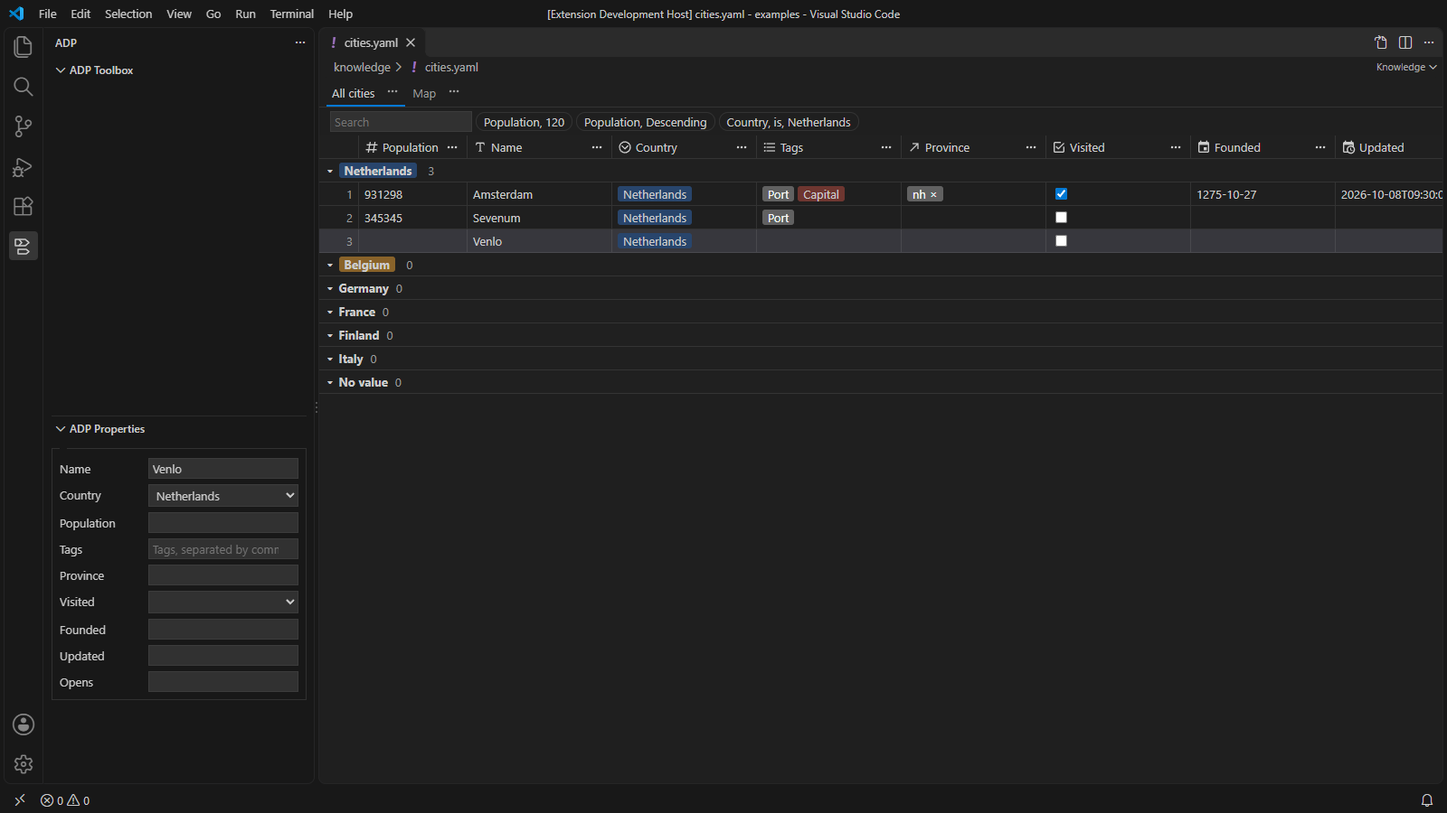
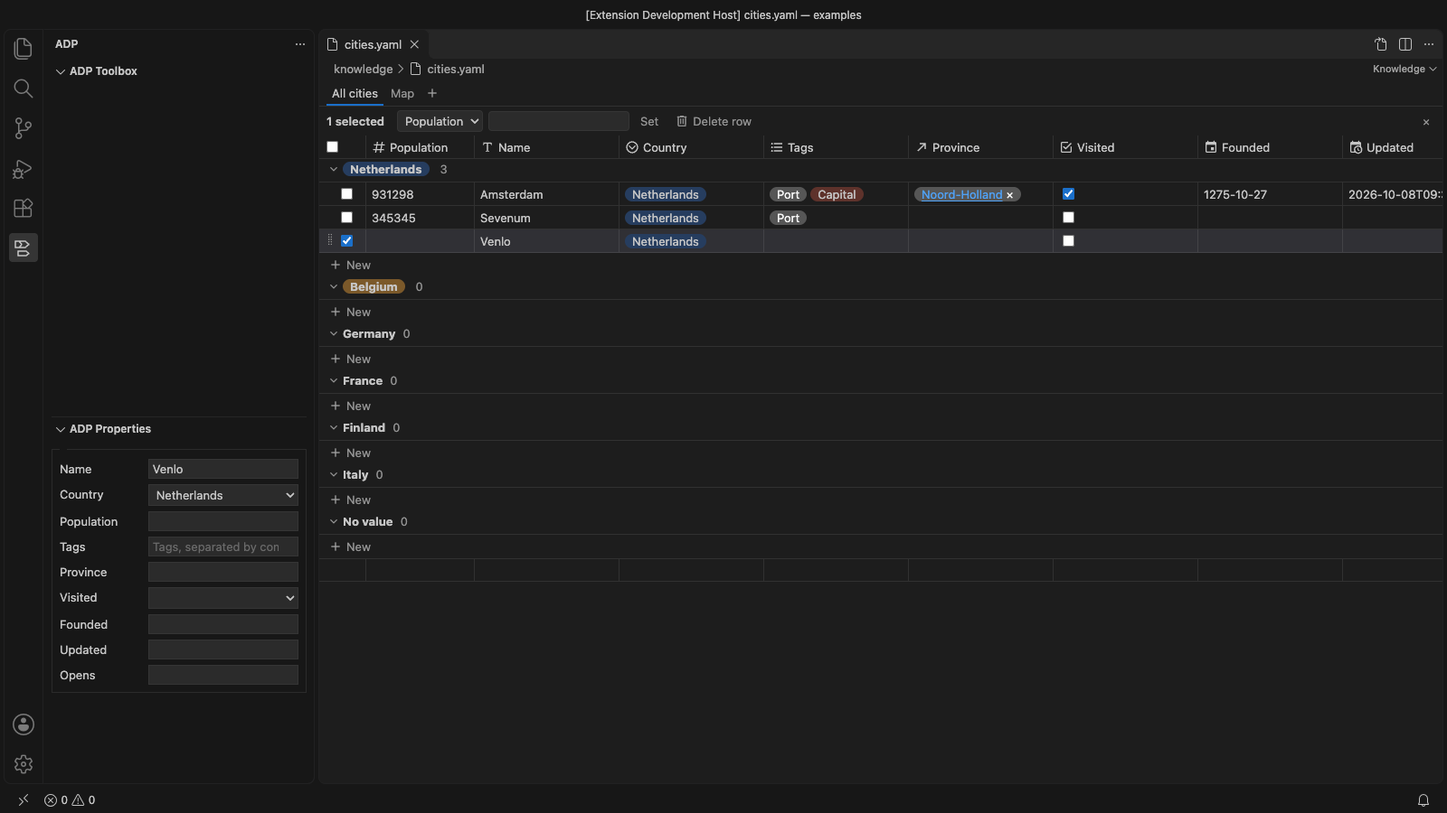
Knowledge designer side by side with the standalone host
Every gesture of etalii.adp spec 079 (FR-001 to FR-027) on cities.yaml and every step of
spec 080 (FR-001 to FR-011) on the relations example, made in both hosts and the written
files compared byte for byte (079 T045, T046; 080 T021, T022).

Fixed here, each with a test:
- Rename in a column's menu wrote the name "$typed" once the header had been drawn again.
- An optional checkbox of an operation's form, left alone, wrote checked: false.
- Changing a condition's value or property moved the view's filter block.
- A text condition started with contains; knowledge.md and the standalone host start with is.
- A row's checkbox pressed with the pointer did not select the row.

The standalone host's own choices are listed in docs/disl-support.md for issue 162, the one
Undo after a two-way relation in docs/parity.md, and knowledge.png is retaken; capture.mjs
now opens Quick Open with Cmd+P on macOS.

Claude-Session: https://claude.ai/code/session_01GadpJyVDUhFrpYtNsUeJqM

diff --git a/test/webview/table/gestures.test.ts b/test/webview/table/gestures.test.ts
@@ -154,6 +154,19 @@ describe('a table with gestures', () => {
     expect(all<HTMLInputElement>('tbody .adp-table-check').map((box) => box.checked)).toEqual([false, false]);
   });
 
+  it('selects a row by a press on its checkbox, which focuses the checkbox before it changes', () => {
+    const box = one<HTMLInputElement>('tbody tr[data-id="r1"] .adp-table-check');
+    // A press with the pointer focuses the checkbox first; that focus selects nothing of its own.
+    box.focus();
+    tick(box);
+    expect(box.checked).toBe(true);
+    expect(one<HTMLInputElement>('.adp-table-all').checked).toBe(false);
+    const other = one<HTMLInputElement>('tbody tr[data-id="r2"] .adp-table-check');
+    other.focus();
+    tick(other);
+    expect([box.checked, other.checked, one<HTMLInputElement>('.adp-table-all').checked]).toEqual([true, true, true]);
+  });
+
   it('draws the surface it drew before for a table without gestures', () => {
     surface.receive(message({ ...view, gestures: undefined }));
     expect(all('tbody [role="rowheader"]').map((cell) => cell.textContent)).toEqual(['1', '2']);
@@ -182,7 +195,7 @@ describe('the settings control and the panels of a table with gestures', () => {
         id: 'c1',
         properties: [{ id: 'size', label: 'size', checked: true }],
         operators: [{ id: 'equals', label: '=', checked: true }, { id: 'greater-than', label: '>', request: op('setCondition', ['c1'], { operator: 'greater-than' }) }],
-        value: { control: 'number', value: '3', request: { kind: 'steps', steps: [op('removeCondition', ['c1']), op('addCondition', ['va'], { property: 'size', operator: 'equals', number: '$typed' })] } },
+        value: { control: 'number', value: '3', request: { kind: 'steps', steps: [op('addCondition', ['va'], { property: 'size', operator: 'equals', number: '$typed' }), op('removeCondition', ['c1'])] } },
         remove: op('removeCondition', ['c1']),
       }],
       groups: [],
@@ -248,7 +261,7 @@ describe('the settings control and the panels of a table with gestures', () => {
     press(all('.adp-table-item-text')[1]);
     change(one<HTMLSelectElement>('.adp-table-condition select[aria-label="Comparison"]'), 'greater-than');
     change(one<HTMLInputElement>('.adp-table-condition input[aria-label="Value"]'), '5');
-    expect(edits()).toEqual([op('setCondition', ['c1'], { operator: 'greater-than' }), { kind: 'steps', steps: [op('removeCondition', ['c1']), op('addCondition', ['va'], { property: 'size', operator: 'equals', number: 5 })] }]);
+    expect(edits()).toEqual([op('setCondition', ['c1'], { operator: 'greater-than' }), { kind: 'steps', steps: [op('addCondition', ['va'], { property: 'size', operator: 'equals', number: 5 }), op('removeCondition', ['c1'])] }]);
   });
 
   it('adds a filter and a sort from their lists, and hides a group by its eye', () => {

diff --git a/test/core/plugins/knowledgeGestures.test.ts b/test/core/plugins/knowledgeGestures.test.ts
@@ -49,6 +49,18 @@ describe('the gestures of a Knowledge table', () => {
     expect(gestures.newProperty?.[1].request).toMatchObject({ operation: 'addProperty', args: { valueType: 'number', after: 'p9' } });
   });
 
+  it('changes the value of a condition where the file has its filter, as the standalone host does', () => {
+    const value = gestures.settings!.filter.conditions[0].value.request!;
+    const written = textOf(source, JSON.parse(JSON.stringify(value).replace('"$typed"', '"o2"')) as TableRequest);
+    expect(written).toBe(source.text.replace(/( {4}filter:\r?\n {6}- property: p2\r?\n {8}operator: is\r?\n {8}option: )o1/, '$1o2'));
+  });
+
+  it('starts a condition on text with the first comparison `knowledge.md` gives text, is', () => {
+    const add = gestures.settings!.filter.add.find((entry) => entry.id === 'p1')!.request!;
+    expect(add).toMatchObject({ operation: 'addCondition', args: { property: 'p1', operator: 'is' } });
+    expect(gestures.settings!.filter.conditions[0].properties.find((entry) => entry.id === 'p1')!.request).toMatchObject({ steps: [{ operation: 'addCondition', args: { property: 'p1', operator: 'is' } }, { operation: 'removeCondition' }] });
+  });
+
   it('says the sorts and filters in words, each with what removes it', () => {
     expect(gestures.items?.map((item) => [item.kind, item.text, item.descending ?? false])).toEqual([['sort', 'Population', true], ['filter', 'Country is Netherlands', false]]);
     const removed = textOf(source, gestures.items![0].remove!);
@@ -91,7 +103,7 @@ describe('the settings control, the options panel and the calculation line of a 
     const not = textOf(source, condition.operators.find((entry) => entry.id === 'is-not')!.request!);
     expect(viewOf(not).gestures?.items?.map((item) => item.text)).toContain('Country is not Netherlands');
     const byName = textOf(source, condition.properties.find((entry) => entry.id === 'p1')!.request!);
-    expect(viewOf(byName).gestures?.settings?.filter.conditions[0].operators.find((entry) => entry.checked)?.id).toBe('contains');
+    expect(viewOf(byName).gestures?.settings?.filter.conditions[0].operators.find((entry) => entry.checked)?.id).toBe('is');
   });
 
   it('nests filter groups as deep as the definition allows, and says so past it', () => {

diff --git a/src/core/plugins/knowledge-views/settings.ts b/src/core/plugins/knowledge-views/settings.ts
@@ -11,9 +11,9 @@ const operation = (name: string, on: readonly string[] = [], args: Readonly<Reco
 const steps = (list: readonly TableRequest[]): TableRequest => (list.length === 1 ? list[0] : { kind: 'steps', steps: list });
 const text = (value: Value | undefined): string => (value === undefined || value === null ? '' : String(value));
 
-/** The comparisons of each value type, the first the one a new condition starts with; every type also has the two of emptiness. */
+/** The comparisons of each value type in the order of `knowledge.md`, the first the one a new condition starts with; every type also has the two of emptiness. */
 const comparisons: Readonly<Record<string, readonly string[]>> = {
-  text: ['contains', 'does-not-contain', 'is', 'is-not', 'starts-with', 'ends-with'],
+  text: ['is', 'is-not', 'contains', 'does-not-contain', 'starts-with', 'ends-with'],
   number: ['equals', 'does-not-equal', 'greater-than', 'less-than', 'at-least', 'at-most'],
   checkbox: ['is-checked', 'is-not-checked'],
   date: ['is', 'is-before', 'is-after', 'is-on-or-before', 'is-on-or-after'],
@@ -69,7 +69,10 @@ export function settingsOf(table: TableData, view: ModelElement, columns: readon
     if (!property) return undefined;
     const operator = text(condition.attributes.operator);
     const key = keyOf(property.valueType);
-    const replaced = (args: Readonly<Record<string, string | number | boolean>>): TableRequest => steps([operation('removeCondition', [condition.id]), operation('addCondition', [parent], args)]);
+    // The new condition is added before the old one goes, so that a filter of one condition is
+    // never empty in between and its block stays where the file has it, as the standalone host's
+    // change in place leaves it.
+    const replaced = (args: Readonly<Record<string, string | number | boolean>>): TableRequest => steps([operation('addCondition', [parent], args), operation('removeCondition', [condition.id])]);
     const empty = operator === 'is-empty' || operator === 'is-not-empty' || property.valueType === 'checkbox' || key === undefined;
     const choice = property.valueType === 'selection' || property.valueType === 'multipleSelection';
     const value: TableField = empty

diff --git a/src/webview/table/table.ts b/src/webview/table/table.ts
@@ -470,7 +470,8 @@ export class Table {
     if (!cell || target.closest('.adp-table-editor')) return;
     this.place = placeOf(cell);
     this.rove();
-    if (this.silent) return;
+    // A row's checkbox selects by its change, which a selection made on its focus would undo.
+    if (this.silent || target.closest('.adp-table-check')) return;
     this.anchor = cell.closest('tr')?.dataset.id;
     this.select(this.idsOf(cell));
   }
@@ -807,10 +808,27 @@ export class Table {
 
   /** An entry of a menu chosen: renamed in place, a panel opened, or its request made. */
   private chosen(entry: TableEntry): void {
-    if (entry.named && entry.entries && this.menuAt?.isConnected) this.newProperty(this.menuAt, entry.entries);
-    else if (entry.inPlace && entry.request && this.menuAt?.isConnected) this.rename(this.menuAt, entry.request);
-    else if (entry.opens) this.openPanel(entry.opens);
+    const anchor = this.anchorOfMenu();
+    if (entry.named && entry.entries) {
+      if (anchor) this.newProperty(anchor, entry.entries);
+    } else if (entry.inPlace && entry.request) {
+      // Without its tab or header there is no field to type the name in, and nothing is sent.
+      if (anchor) this.rename(anchor, entry.request);
+    } else if (entry.opens) this.openPanel(entry.opens);
     else if (entry.request) this.make(entry.request);
+  }
+
+  /**
+   * The tab or header a menu was opened from, as it is drawn now: pressing a header selects its
+   * column and draws the table again, so the element the menu was opened from may be gone.
+   */
+  private anchorOfMenu(): HTMLElement | undefined {
+    const at = this.menuAt;
+    if (!at || at.isConnected) return at;
+    const { view, id } = at.dataset;
+    if (view !== undefined) return [...this.tabs.querySelectorAll<HTMLElement>('[role="tab"]')].find((tab) => tab.dataset.view === view);
+    if (id !== undefined) return [...this.grid.querySelectorAll<HTMLElement>('[role="columnheader"][data-id]')].find((header) => header.dataset.id === id);
+    return undefined;
   }
 
   /** Opens an editor of the settings control, or a column's options, in place of the one that was open. */

diff --git a/test/webview/table/editors.test.ts b/test/webview/table/editors.test.ts
@@ -1,0 +1,31 @@
+import { describe, expect, it } from 'vitest';
+import type { TableParam } from '../../../src/core/tool/tableView';
+import { controlOf, given } from '../../../src/webview/table/editors';
+
+// What the form of an operation's parameters gives for a checkbox: an optional one with no default
+// left unticked gives nothing, so a filter added from a column's menu is not written with
+// `checked: false` (a difference the side-by-side check with the standalone host found).
+
+const box = (more: Partial<TableParam> = {}): TableParam => ({ name: 'checked', label: 'Checked', control: 'checkbox', required: false, ...more });
+
+describe('a checkbox of an operation\'s form', () => {
+  it('gives nothing when it is optional, has no default and is left unticked', () => {
+    const param = box();
+    expect(given(param, controlOf(param))).toBeUndefined();
+  });
+
+  it('gives true once ticked', () => {
+    const param = box();
+    const control = controlOf(param) as HTMLInputElement;
+    control.checked = true;
+    expect(given(param, control)).toBe(true);
+  });
+
+  it('gives false when it is required or has a default', () => {
+    for (const param of [box({ required: true }), box({ value: true })]) {
+      const control = controlOf(param) as HTMLInputElement;
+      control.checked = false;
+      expect(given(param, control)).toBe(false);
+    }
+  });
+});

diff --git a/test/webview/table/columnMenu.test.ts b/test/webview/table/columnMenu.test.ts
@@ -112,3 +112,19 @@ describe('a column\'s menu', () => {
     expect(document.querySelector('.adp-table-rename')).toBeNull();
   });
 });
+
+describe('a column renamed from its menu after the table was drawn again', () => {
+  it('asks the name in the header as it is drawn now, and never sends a rename without one', () => {
+    press(header('p2'));
+    // Pressing a header selects its column, and the view that comes back draws the headers anew.
+    const view = type.view(source, {}) as TableView;
+    surface.receive({ v: 2, type: 'view', origin: 'etalii/knowledge', kind: 'designer', view, actions: [], version: 2 });
+    press(entry('rename'));
+    expect(edits()).toEqual([]);
+    const input = one<HTMLInputElement>('[role="columnheader"][data-id="p2"] .adp-table-rename');
+    expect(document.activeElement).toBe(input);
+    input.value = 'Land';
+    input.dispatchEvent(new KeyboardEvent('keydown', { key: 'Enter', bubbles: true, cancelable: true }));
+    expect(edits()).toEqual([{ kind: 'operation', operation: 'renameProperty', on: ['p2'], args: { name: 'Land' } }]);
+  });
+});

diff --git a/src/webview/table/editors.ts b/src/webview/table/editors.ts
@@ -56,9 +56,16 @@ export function controlOf(param: TableParam): Control {
   return input;
 }
 
-/** What a control was given, as its parameter's kind of value; undefined for one left empty. */
+/**
+ * What a control was given, as its parameter's kind of value; undefined for one left empty. An
+ * optional checkbox with no default that is left unticked gives nothing either, as the standalone
+ * host gives nothing for a value it did not ask.
+ */
 export function given(param: TableParam, control: Control): TableValue | undefined {
-  if (param.control === 'checkbox') return control instanceof HTMLInputElement && control.checked;
+  if (param.control === 'checkbox') {
+    const checked = control instanceof HTMLInputElement && control.checked;
+    return checked || param.required || param.value !== undefined ? checked : undefined;
+  }
   if (control.value === '') return undefined;
   return param.control === 'number' ? Number(control.value) : control.value;
 }

diff --git a/test/webview/table/table.test.ts b/test/webview/table/table.test.ts
@@ -552,7 +552,7 @@ describe('the actions', () => {
     type(controls[0], 'Titel');
     type(controls[4], 'b');
     submit.click();
-    expect(edits()).toEqual([{ kind: 'operation', operation: 'rename', on: ['title'], args: { name: 'Titel', width: 120, wrap: false, kind: 'b' } }]);
+    expect(edits()).toEqual([{ kind: 'operation', operation: 'rename', on: ['title'], args: { name: 'Titel', width: 120, kind: 'b' } }]);
     expect(document.querySelector('.adp-table-params')).toBeNull();
   });
 

diff --git a/docs/disl-support.md b/docs/disl-support.md
@@ -312,6 +312,34 @@ The Knowledge designer is read from its definition, with the view logic this hos
 | The colours of options | This host's own ten pairs, one for a light and one for a dark theme | Its own | [162](https://github.com/etalii-adp/etalii.adp/issues/162) |
 | The search | Behind a magnifier; hides the rows without the typed text while the table is open, in the webview. A table of more than 300 lines draws only those near sight, and the search hides among those | The same, over every row | None |
 
+#### Side by side with the standalone host
+
+On 2026-11-22 every gesture of etalii.adp spec 079 (FR-001 to FR-027) was made on `examples/knowledge/cities.yaml`, and every step of spec 080 (FR-001 to FR-011) on the relations example (`fixtures/fbl/real-files/src/examples/designers/knowledge/relations/`), in both hosts: this plug-in in Visual Studio Code 1.147.0 on macOS, and the standalone host at `etalii.adp.ide.standalone` `6da7f5a6c`, each driven by a script over the Chrome DevTools protocol, each from the same bytes, with the `.adp` registrations the standalone host needs beside the files in both. After each gesture the files each host wrote were compared byte for byte, new ids put aside. 68 gestures were made. 56 write the same bytes in both hosts, 5 of them only since the differences this host had were fixed here. 10 write different bytes because the standalone host departs from the definition or chooses where it is silent; those are listed for issue [162](https://github.com/etalii-adp/etalii.adp/issues/162) and not settled here. 2 are this host's still: "Edit relation" has no field for the other side's name, and the all-or-any choice of a filter of one condition is not offered. Where the two surfaces differ without writing different bytes is listed after them.
+
+| Gesture | What differed | Status |
+| --- | --- | --- |
+| Rename in a column's menu | The property was renamed `$typed`: pressing a header draws the table again, the header the menu was opened from was gone, and the request went without the name | Fixed here: the name is asked in the header as it is drawn now, and nothing is sent without one (`test/webview/table/columnMenu.test.ts`) |
+| Filter in a column's menu, its form sent | The condition was written with `checked: false`, an optional checkbox of the form that was left alone | Fixed here: an optional checkbox with no default that is left unticked gives nothing (`test/webview/table/editors.test.ts`) |
+| A condition's value or property changed in the filter editor | The view's `filter` block moved after the keys that follow it, since the condition was taken away before the new one was added and the filter was empty in between | Fixed here: the new condition is added first, so the block stays where the file has it (`test/core/plugins/knowledgeGestures.test.ts`) |
+| A condition on text added in the filter editor | It started with `contains`; `knowledge.md` gives text the comparisons `is`, `is-not`, `contains`… and the standalone host starts with `is` | Fixed here: the comparisons are in the companion's order (`test/core/plugins/knowledgeGestures.test.ts`) |
+| A row's checkbox pressed with the pointer | Nothing was selected: the checkbox's focus selected the row and its change took it away again, so the bar of the rows selected never showed | Fixed here: a checkbox selects by its change alone (`test/webview/table/gestures.test.ts`) |
+| `+` after the tabs | The standalone host names the view `View` and leaves the view shown as it was; `addView` names it `Table` and makes it the active one, as this host does | For issue [162](https://github.com/etalii-adp/etalii.adp/issues/162) |
+| Duplicate in a view's menu | The standalone host names the copy `All cities 2`; `duplicateView` names it `All cities copy`, as this host does | For issue [162](https://github.com/etalii-adp/etalii.adp/issues/162) |
+| Delete of the view shown | The standalone host removes `activeView`; `deleteView` makes the first other view the active one, as this host does | For issue [162](https://github.com/etalii-adp/etalii.adp/issues/162) |
+| Hide in view, and a tick of the property visibility editor | The standalone host also gives every column before it in the view a column setting with no attribute; `setColumn` writes the one column, as this host does | For issue [162](https://github.com/etalii-adp/etalii.adp/issues/162) |
+| Delete of a property that has values, a two-way relation's side among them | `deleteProperty` asks first when a cell holds a value (`confirm`, threshold 1), and this host asks; the standalone host deletes without asking. The bytes are the same once it is confirmed | For issue [162](https://github.com/etalii-adp/etalii.adp/issues/162) |
+| Filter in a column's menu | `addCondition` requires a comparison and gives none by default. The standalone host writes `is` at once; this host asks it in a form, and writes the same bytes once `is` is given | For issue [162](https://github.com/etalii-adp/etalii.adp/issues/162) |
+| A new option, in the options panel and typed in a selection cell | The standalone host gives it the next colour of its own (`colour: brown`); `addOption`'s colour defaults to `default`, so this host writes none | For issue [162](https://github.com/etalii-adp/etalii.adp/issues/162) |
+| A condition's property changed in the filter editor | The standalone host keeps the condition's old `option` under the new property; this host writes the condition anew with the new property's first comparison and no value | For issue [162](https://github.com/etalii-adp/etalii.adp/issues/162) |
+| A column's right border dragged by the same distance | Each host writes the width it draws plus the distance, and the standalone host draws a column without a width 20 pixels wider than this host does | For issue [162](https://github.com/etalii-adp/etalii.adp/issues/162): the definition gives no width for a column without one |
+| A knowledge file renamed in the explorer | Both hosts rewrite `target` in the other files alike. The standalone host also renames the `.adp` registration beside the file and the `body` it names; this host leaves the registration, whose `body` then names no file | For issue [162](https://github.com/etalii-adp/etalii.adp/issues/162): neither the definition nor FBL says what becomes of a registration when its body is renamed |
+| "Edit relation", Two-way relation | Both hosts write the same bytes when no name is given: the other side is named after this table. The standalone panel also takes a name typed first; this host offers none | Not fixed here: the menu entry has no field for the name |
+| The all-or-any choice of the view's filter | The standalone editor offers it always and writes `filterMatch`; this host offers it only from two conditions on, so a filter of one condition cannot be set to `any` | Not fixed here |
+
+The gestures that wrote the same bytes in both hosts: switching, renaming and dragging a view; Change type, Sort ascending and descending, Group, Wrap text, Freeze up to column, Duplicate, Insert left and right, `+` after the headers, with a name and without one, and dragging a column; the × of a sort and of a filter in the bar; adding, reversing and removing a sort; a condition's comparison and value; adding a condition and a filter group; Group by, Hide empty groups, the order of the groups and the eye of a group; folding, moving up and down and hiding a group by its heading; renaming, recolouring and deleting an option, used by one row and by several; `+ New` under the table and under a group; setting one property for the rows selected and deleting them, and Delete row from a row's menu; dragging a row; Shift+Enter; a sum in the calculation line; creating a two-way and a one-way relation; deleting one side of a two-way relation with the other side deleted too or kept one-way; Edit relation's limit; choosing related rows in a relation cell, with no limit and with a limit of one; deleting a row that rows of another file relate to, after the count is said; and the `target` rewritten when a file is renamed.
+
+Where the surfaces differ without writing different bytes: this host shows a group heading's controls on hover and leaves out Move up on the first group and Move down on the last, where the standalone host shows all of them; it calls the group of rows without a value "No value", the standalone host "No Country"; it lists the properties in the property visibility editor in the document's order, the standalone host in the view's; it orders the groups by two buttons, the standalone host by a list of "As arranged", "A to Z" and "Z to A"; it asks a new relation's target, limit and other side in one form, the standalone host one after another; it words the two ways to delete one side of a two-way relation "Delete both sides" and "Keep the other side as a one-way relation", the standalone host "Delete 'Regions' too" and "Keep 'Regions' as a one-way relation"; and it shows the bar of the rows selected, in place of the sorts and filters, as soon as a cell's row is selected, where the standalone host shows it for rows ticked by their checkboxes.
+
 ### Mind map
 
 The mind map is read from its definition alone, with the three plugins it names. Every row is part of issue [152](https://github.com/etalii-adp/etalii.adp/issues/152) unless it says otherwise.

diff --git a/docs/screenshots/readme.md b/docs/screenshots/readme.md
@@ -23,6 +23,6 @@ The whole procedure is executable: [`capture.mjs`](capture.mjs) drives all of th
 | `agent-behavior-modelling.png` | `agent-behavior-modelling/research-assistant/` → `research-assistant.adp` | The research assistant's behavior tree centred in its tab, each node in the shape and colour of its kind with its keyword above its label, parents joined to children by elbowed arrows; ADP Toolbox listing the behavior kinds; the Do together node selected, with its properties in ADP Properties. |
 | `gartner-hypecycle-graph-light.png` | `gartner-hypecycle-graph/digital-trends/` → `digital-trends.ghg` | The digital trends as banners on the year axis, coloured by phase, with the Peak/Trough/Slope/Plateau key and the tag filter above; ADP Toolbox showing Trend, Trigger and Note; the trend nearest the middle selected, with its properties in ADP Properties. Light theme. |
 | `mindmap.png` | `mindmap/example 1/` → `mindmap.mm` | The rendering engine map centred in its tab, the root in the middle with its branches laid out to both sides and joined by curved lines, each parent with its fold button; ADP Toolbox showing Node; the node nearest the middle (the root, Rendering engine) selected, with its text, notes and link in ADP Properties. |
-| `knowledge.png` | `knowledge/` → `cities.yaml` | The Cities table in its All cities view, with the Map view's tab beside it, the sort, filter and column chips above, the rows grouped by country with Netherlands unfolded, tags and the province relation as chips; ADP Toolbox empty, since a table offers nothing to place; a cell of one row selected, with that row's fields in ADP Properties. A table has no drawing to centre. |
+| `knowledge.png` | `knowledge/` → `cities.yaml` | The Cities table in its All cities view, with the Map view's tab and the `+` beside it, the rows grouped by country with Netherlands unfolded, tags as rounded chips in their colours and the province relation as a link by its title, a `+ New` line under each group; ADP Toolbox empty, since a table offers nothing to place; a cell of one row selected, so the bar of the rows selected stands above the headers in place of the sort and filter, with that row's fields in ADP Properties. A table has no drawing to centre. |
 | `agent-activity-diagram.png` | `agent-activity-diagram/adp-one-day/` → `adp-one-day.aad` | ADP on one day: the projects, specifications with their task groups, agents, locations and environments, each in the shape and colour of its kind, with the Show archived switch; ADP Toolbox listing Project, Specification, Agent, Location and Environment; the element nearest the middle selected, with its properties in ADP Properties. |
 | `hierarchical-requirement.png` | `hierarchical-requirement/` → `web-shop.md`, opened in the Hierarchical Requirement Designer (the profile associates the file with it, since Markdown opens as text by default) | The web shop's requirements as a page of boxes: Storefront, Backend and the levels they hold in columns side by side, each requirement with its number, title, tags, category badge and state dot and its description with the mentions it makes, Guest checkout and Every page loads collapsed, the trail, the filter bar with its order and stored filters, and the finding about the entry written with `REQ-NEW` above them; ADP Toolbox showing Item and Requirement; the requirement REQ-0004 (An order is confirmed by e-mail) selected, with its id, title, description, tags, category and state in ADP Properties. A page of boxes has no drawing to centre. Never the NIST SP 800-53 example. |

diff --git a/docs/parity.md b/docs/parity.md
@@ -71,6 +71,8 @@ Its differences from the definition and from the standalone host are listed in [
 |---|---|
 | Every drag also has its keys: Alt with an arrow moves a tab, a column or a row one place, Alt+Shift with an arrow widens or narrows a column by 20 pixels, and the arrows move a line of an editor by its handle. | Spec 079 asks a keyboard path for every drag (FR-030); the standalone host has none for these. |
 | The settings control's editors open under the bar, as one panel, and use the editor's own selects and boxes. | A webview draws with the platform's controls; what each editor offers is the standalone one's. |
+| A step that writes two files, such as a two-way relation made, is one entry of Visual Studio Code's undo, taken back by one Undo in the table. On 2026-11-22, in Visual Studio Code 1.147.0 on macOS with the dialogs drawn by the workbench, one Undo after "Neighbours" was made two-way between `countries.yaml` and `regions.yaml` returned both files to their bytes before the step and showed no "Undo in all files" dialog; `countries.yaml` was the one file open in an editor. No picture was taken, since no dialog appeared. Whether the dialog appears while `regions.yaml` is open in an editor too was not seen (etalii.adp spec 080, T022). | The step is one workspace edit over both files, which Visual Studio Code keeps as one undo element; whether it asks first is the platform's, not the plug-in's. |
+| A knowledge file renamed in the explorer asks first, in Visual Studio Code's own words: "Extension 'ADP: A Different Perspective' wants to make refactoring changes with this file move", with Show Preview, Skip Changes and OK. | The `target` of the other files is rewritten as a participant of the move, which the platform confirms; the standalone host renames without asking. |
 
 ## Native dialogs, seen in a real window
 
